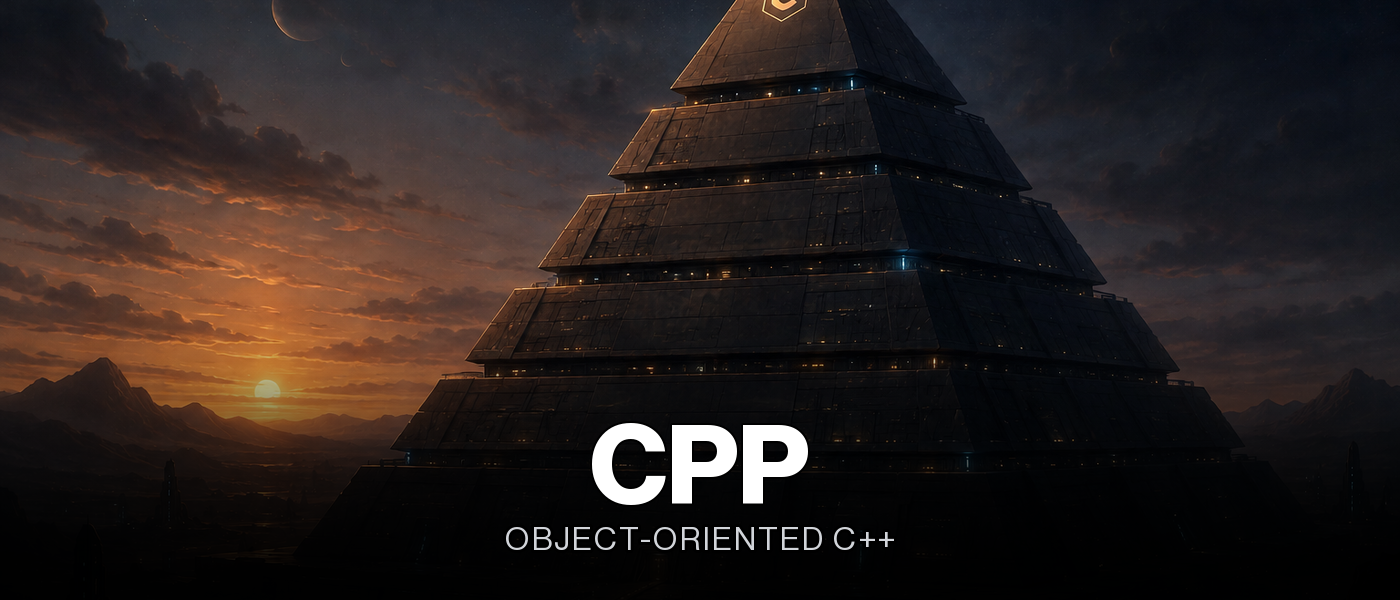
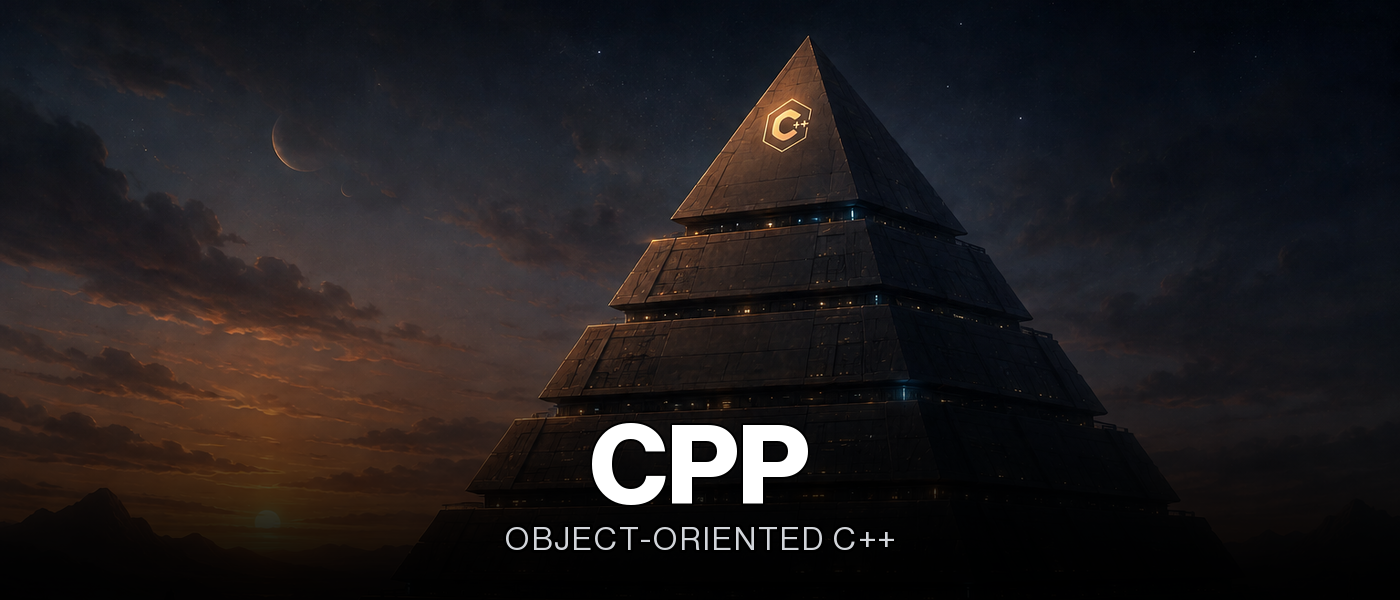
readme

diff --git a/README.md b/README.md
@@ -9,6 +9,7 @@
     <a href="https://42lausanne.ch"><img src="https://img.shields.io/badge/42-Lausanne-000000?style=for-the-badge&logo=42&logoColor=white" alt="42 Lausanne" /></a>
     <img src="https://img.shields.io/badge/C%2B%2B98-00599C?style=for-the-badge&logo=cplusplus&logoColor=white" alt="C++98" />
     <img src="https://img.shields.io/badge/Norminette-passing-2ea44f?style=for-the-badge" alt="Norm passing" />
+    <img src="https://img.shields.io/badge/grade-100%2F100-5ec8c5?style=for-the-badge" alt="Grade 100/100" />
   </p>
 
   <p>
@@ -176,9 +177,9 @@ CPP/
 <h2 align="center">Result</h2>
 
 <div align="center">
-
-<sup><i>All ten modules (CPP00 – CPP09) completed. Last module validated on May 2, 2026.</i></sup>
-
+  <img src=".assets/100.png" alt="cpp grade" width="220px" />
+  <br/>
+  <sup><i>All ten modules (CPP00 – CPP09) completed. Last module validated on May 2, 2026.</i></sup>
 </div>
 
 <img src=".assets/divider.png" width="100%" alt="" />
